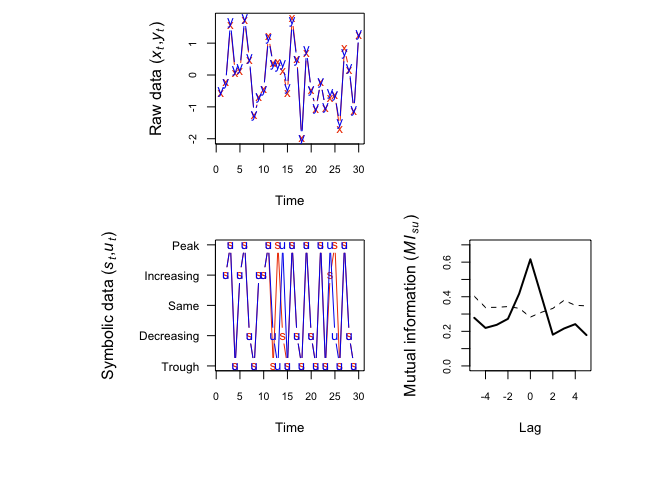
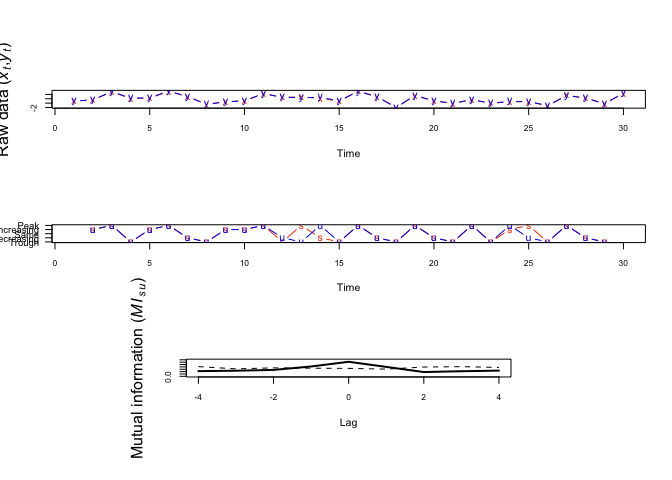
fixed plot sizes

diff --git a/README.md b/README.md
@@ -45,23 +45,8 @@ set.seed(123)
 TT <- 30
 x <- rnorm(TT)
 y <- rnorm(TT)
-muti(x,y)
+#muti(x,y)
 ```
-
-<img src="README_files/figure-markdown_github/ex_1-1.png" width="100%" height="100%" />
-
-    ##       lag      MI_xy     MI_ci
-    ##  [1,]  -5 0.08322984 0.3778558
-    ##  [2,]  -4 0.06800523 0.3269938
-    ##  [3,]  -3 0.02230546 0.3857086
-    ##  [4,]  -2 0.02816403 0.3426943
-    ##  [5,]  -1 0.04561370 0.3438173
-    ##  [6,]   0 0.06997917 0.3032215
-    ##  [7,]   1 0.10937351 0.2795474
-    ##  [8,]   2 0.09965162 0.3470183
-    ##  [9,]   3 0.02230546 0.3344613
-    ## [10,]   4 0.06044060 0.3512004
-    ## [11,]   5 0.06156946 0.3807038
 
 ### 2 correlated variables
 
@@ -76,14 +61,12 @@ muti(x,y)
 <img src="README_files/figure-markdown_github/ex_2-1.png" width="100%" height="100%" />
 
     ##       lag     MI_xy     MI_ci
-    ##  [1,]  -5 0.2780756 0.4023652
-    ##  [2,]  -4 0.2196129 0.3381732
-    ##  [3,]  -3 0.2375794 0.3387626
-    ##  [4,]  -2 0.2722575 0.3431813
-    ##  [5,]  -1 0.4176067 0.3332385
-    ##  [6,]   0 0.6166387 0.2824207
-    ##  [7,]   1 0.3996744 0.3104196
-    ##  [8,]   2 0.1807963 0.3326402
-    ##  [9,]   3 0.2162810 0.3788712
-    ## [10,]   4 0.2416187 0.3505441
-    ## [11,]   5 0.1783442 0.3472656
+    ##  [1,]  -4 0.2196129 0.4125676
+    ##  [2,]  -3 0.2375794 0.3161066
+    ##  [3,]  -2 0.2722575 0.3586554
+    ##  [4,]  -1 0.4176067 0.3448750
+    ##  [5,]   0 0.6166387 0.3364973
+    ##  [6,]   1 0.3996744 0.3055931
+    ##  [7,]   2 0.1807963 0.3928385
+    ##  [8,]   3 0.2162810 0.4098452
+    ##  [9,]   4 0.2416187 0.3762782
